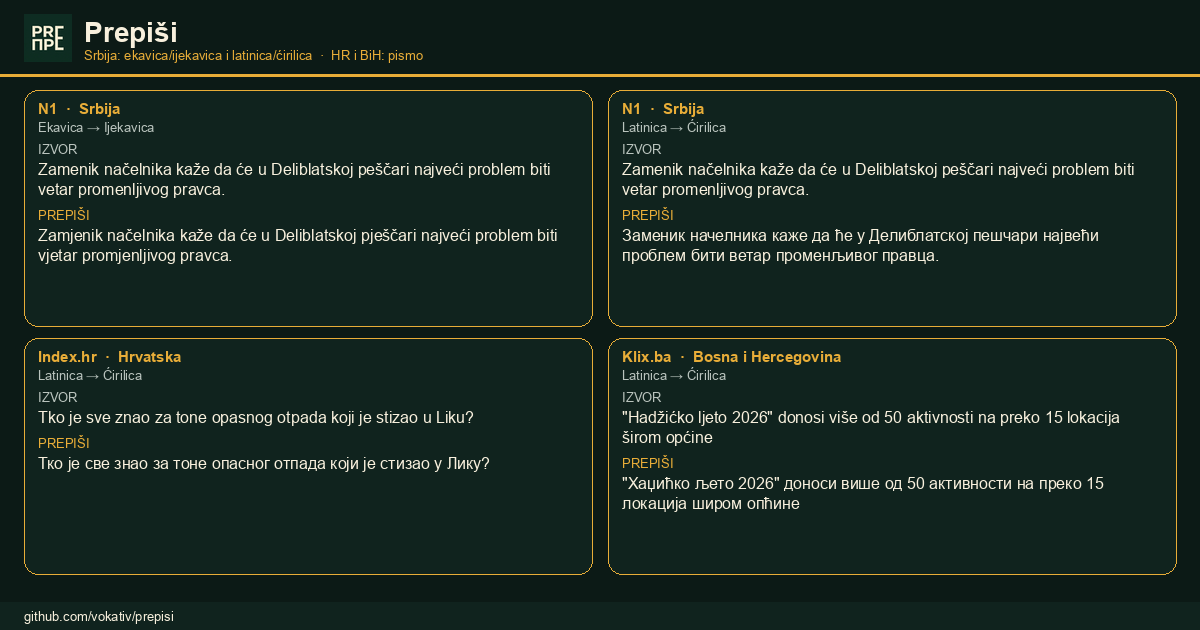
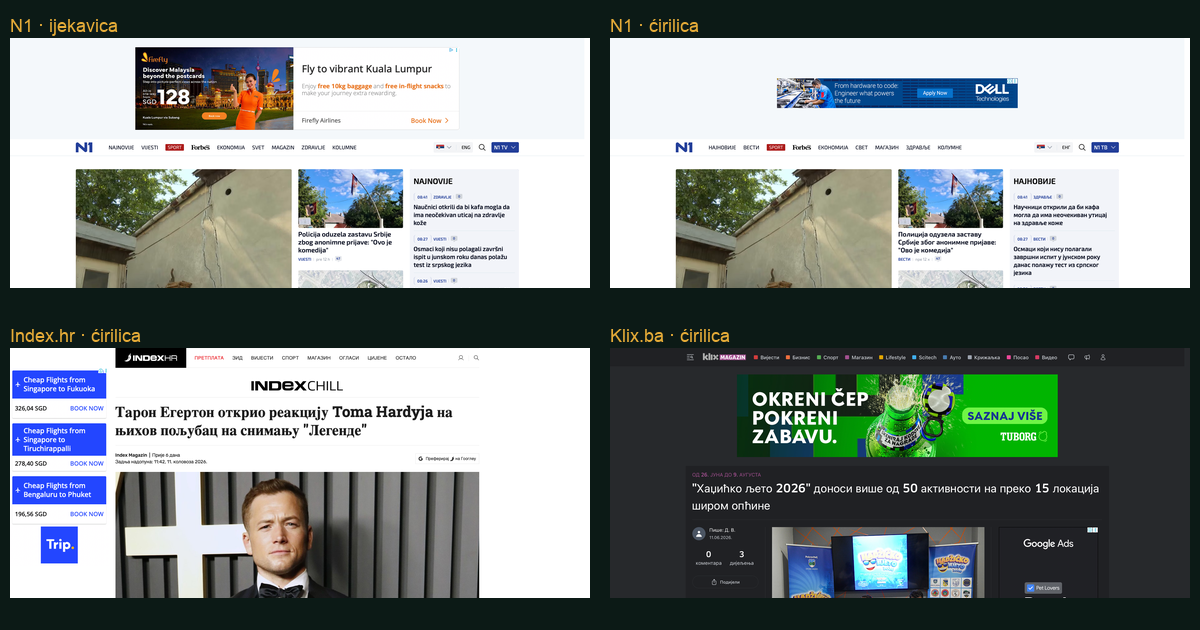
Audit release gates and add real portal screenshots

diff --git a/docs/PERSONAL_PUBLISHER_ACCOUNTS.md b/docs/PERSONAL_PUBLISHER_ACCOUNTS.md
@@ -18,6 +18,9 @@ display name: `Nemanja G`.
   `https://github.com/vokativ/prepisi/blob/main/PRIVACY.md`.
 - Check-back dates, reviewer IDs, and social drafts:
   [`docs/LAUNCH_AND_SOCIAL.md`](LAUNCH_AND_SOCIAL.md).
+- Branding audit: toolbar icons are original, but `assets/wordmark.png` remains
+  Balkan Sans-derived. Confirm its raster-output right or replace it before
+  treating the public-release branding gate as closed.
 
 ## Account status (2026-08-17)
 
@@ -61,12 +64,14 @@ address too.
    personal address with the `noreply` address in every commit's author and
    committer metadata, and the sanitized history was force-pushed. A pre-
    rewrite backup bundle was made first; there were no other collaborators or
-   branches to coordinate with (single-owner, still-private repository).
+   branches to coordinate with (single-owner repository).
 3. Verified: `git log --format='%ae' origin/main | sort -u` returns only the
-   `noreply` address across all 17 commits on `origin/main`.
+   `noreply` address across commits on `origin/main`.
 
-This was performed while the repository is still private, ahead of the
-Balkan Sans branding decision that remains the last public-release gate.
+The repository is public as of 2026-08-17. Toolbar icons are original `PRE` /
+`ПРЕ` lockups, but the popup wordmark still uses a Balkan Sans-derived raster.
+OTF/ZIP font files remain uncommitted. Confirm the wordmark's raster-output
+right or replace it before treating the branding gate as closed.
 
 Official privacy references:
 
@@ -84,19 +89,14 @@ the intended personal GitHub account, keep that remote and reauthenticate the
 GitHub CLI as that user. Otherwise, create or transfer the repository to the
 intended personal account before publishing it.
 
-After the rights gate is resolved and release files are reviewed:
+Done 2026-08-17: `vokativ/prepisi` is the public personal repository, tagged
+`v0.9.1`. Privacy and support URLs:
 
-1. Commit the 0.9.1 release changes and push them.
-2. Make the repository public.
-3. Tag the exact store source as `v0.9.1`.
-4. Use the rendered GitHub privacy page as the initial policy URL:
-   `https://github.com/vokativ/prepisi/blob/main/PRIVACY.md`.
-5. Use the repository home page as the project and support URL unless a separate
-   website is created later.
+- `https://github.com/vokativ/prepisi/blob/main/PRIVACY.md`
+- `https://github.com/vokativ/prepisi`
 
-A public GitHub repository is not required merely to register for the extension
-stores. It is useful here because it supplies stable privacy, support, and
-GPL-3.0 source links.
+Keep using the GitHub `noreply` commit address. A later store-URL update to the
+README is enough after Chrome, Firefox, or Edge publish.
 
 ## Chrome Web Store
 
@@ -106,14 +106,10 @@ Use the dedicated project Google Account `hepsesus@gmail.com`. Note that Google
 Play Console and Chrome Web Store are separate developer programs; signing in to
 the Chrome Web Store Developer Dashboard initiates the extension registration flow.
 
-1. Open the Chrome Web Store Developer Dashboard while signed in to
-   `hepsesus@gmail.com`.
-2. Non-Trader status declaration was completed on 2026-08-16.
-3. Accept the developer agreement and pay the one-time $5 registration fee.
-4. Set the public publisher name (`Prepiši` or personal handle) and confirm
-   contact email `hepsesus@gmail.com`.
-5. Upload `dist/prepisi-0.9.1-chromium.zip` and complete the listing, privacy,
-   permission-justification, and distribution fields.
+Completed 2026-08-17 under `hepsesus@gmail.com`: Non-Trader declaration, $5
+fee, publisher name `Nemanja G`, verified contact email, and upload of
+`dist/prepisi-0.9.1-chromium.zip`. Item
+`lgcbhfgbbjdhglmomlgkbeikcngjhikb` is pending review with auto-publish.
 
 Official guidance:
 
@@ -136,19 +132,16 @@ enrollment. Individual matches publication as a genuinely personal, non-business
 project. Microsoft treats publishing related to a trade, profession, freelance
 work, or business differently, so confirm that characterization during signup.
 
-### Registration
+### Submission status
 
-1. Sign in to Partner Center with the personal MSA or personal GitHub account.
-2. Open **Account settings → Programs → Microsoft Edge → Get started**.
-3. Select the correct country or region and **Individual** account type.
-4. Choose the available publisher display name and provide the required private
-   account contact information. For the public optional support contact, enter
-   the GitHub support URL rather than the login email.
-5. Accept the developer agreement and wait for verification.
-6. There is no Microsoft Edge extension-program registration fee.
-7. Upload `dist/prepisi-0.9.1-edge.zip` only after the deferred Edge runtime pass
-   is completed, or publish conservatively without claiming the deferred macOS
-   combination as verified.
+Completed 2026-08-17: Individual enrollment in Singapore, publisher profile,
+public GitHub support URL, package validation, Productivity category, privacy
+disclosures, English listing, real screenshots, and certification notes. The
+public Edge listing is **In review**; Microsoft quoted 7 business days. Edge
+runtime testing on macOS remains deferred, so do not claim that combination as
+verified.
+
+There is no Microsoft Edge extension-program registration fee.
 
 Official guidance:
 
@@ -164,20 +157,15 @@ type. After signing in to addons.mozilla.org, set the AMO developer-profile
 display name separately; the Mozilla Account display name does not automatically
 become the AMO display name.
 
-### Registration and signing
+### Submission status
 
-1. Sign in or register at addons.mozilla.org with the personal Mozilla Account.
-2. Open the Add-ons Developer Hub and choose **Submit a New Add-on**.
-3. Choose **On this site** for a normal public AMO listing.
-4. Upload `dist/prepisi-0.9.1-firefox.zip`.
-5. If AMO asks whether the submitted extension contains generated or
-   preprocessed files, provide the tagged repository source plus reviewer build
-   instructions. The target package is produced from repository source by
-   `npm run build:all`; generated linguistic files retain their documented
-   provenance and review workflow.
-6. Complete the listing and wait for Mozilla signing/review.
-7. Test the exact Mozilla-signed XPI on Firefox desktop and Android before
-   calling the signed package fully supported.
+Completed 2026-08-17: AMO agreement accepted, public listing selected, Firefox
+desktop and Android compatibility enabled, `dist/prepisi-0.9.1-firefox.zip`
+validated with 0 errors or warnings, metadata and reviewer notes completed, and
+a tagged source archive uploaded. AMO slug: `prepisi-converter`.
+
+Next real gate: after Mozilla signs the XPI, test that exact file on Firefox
+desktop and Android before describing the signed package as fully supported.
 
 Official guidance:
 
@@ -214,19 +202,15 @@ Official guidance:
 
 ## Recommended order
 
-1. Resolve the Balkan Sans-derived branding gate (confirm distribution rights
-   or replace the icon/wordmark). COMtext.SR is resolved as of 2026-08-13.
-2. Reauthenticate the intended personal GitHub account and review the complete
-   public-repository contents.
-3. Commit, push, make the repository public, and tag `v0.9.1`.
-4. Confirm the public privacy and support links work while logged out.
-5. Register the Chrome, Mozilla, and Microsoft individual publisher accounts in
-   parallel. Confirm the Apple individual membership separately.
-6. Prepare consistent descriptions, screenshots, privacy answers, permission
-   explanations, and reviewer notes.
-7. Submit Chrome first, obtain Firefox signing and retest the signed XPI, submit
-   Safari through TestFlight/App Store Connect, and return to Edge after its
-   deferred runtime pass.
+Done for 0.9.1: branding replacement, public GitHub repo, `v0.9.1` tag, privacy
+URL, Chrome/Firefox/Edge individual accounts, and store submissions. See
+[`docs/LAUNCH_AND_SOCIAL.md`](LAUNCH_AND_SOCIAL.md) for review wait dates.
+
+Still open:
+
+1. Wait for Chrome, Firefox, and Edge review; retest the Mozilla-signed XPI.
+2. Apple paid membership remains postponed.
+3. After a store URL exists, add it to the README and a follow-up social post.
 
 ## Where the account owner must step in
 

diff --git a/docs/PROJECT_STATUS.md b/docs/PROJECT_STATUS.md
@@ -70,7 +70,9 @@ Last updated: 2026-08-17. Current extension version: 0.9.1.
 - GitHub `vokativ/prepisi` is public. Privacy URL:
   `https://github.com/vokativ/prepisi/blob/main/PRIVACY.md`.
 - Toolbar icons shipped 2026-08-17 use the original `PRE` / `ПРЕ` lockup, not
-  Balkan Sans outlines. Apple Developer Program enrollment remains postponed.
+  Balkan Sans outlines. **The popup wordmark remains Balkan Sans-derived**;
+  confirm its raster-output right or replace it before treating the branding
+  release gate as closed. Apple Developer Program enrollment remains postponed.
 - Store submissions on 2026-08-17: Chrome Web Store item
   `lgcbhfgbbjdhglmomlgkbeikcngjhikb` is **Pending review** (auto-publish);
   Firefox AMO slug `prepisi-converter` validated with 0 errors and is in
@@ -98,27 +100,29 @@ commands documented in `CONTRIBUTING.md` and `docs/DIALECT_DATA.md`.
 - Never commit the privately licensed Balkan Sans ZIP/OTF files, corpus caches,
   signing keys, generated browser folders, or packaged extension ZIPs. The
   repository ignore rules enforce these boundaries.
-- The GitHub repository is public. Balkan Sans OTF/ZIP files stay uncommitted;
-  shipped icons use the original `PRE` / `ПРЕ` lockup. COMtext.SR terms were
-  confirmed 2026-08-13 (CC BY 4.0 International); see `ATTRIBUTIONS.md`.
+- The GitHub repository is public. Balkan Sans OTF/ZIP files stay uncommitted.
+  Toolbar icons are original, but the popup wordmark remains Balkan Sans-derived;
+  see `ATTRIBUTIONS.md` for the remaining distribution-rights gate.
 - A future non-GPL integration can be discussed with maintainers, but would
   require author permission for affected data or replacement data.
 
 ## Next release work
 
-1. **Watch store reviews** using the dates in
+1. **Resolve the popup-wordmark rights gate.** Confirm Typotheque permits
+   distribution of the existing Balkan Sans-derived raster, or replace
+   `assets/wordmark.png` with independently sourced artwork. Do not call the
+   branding release gate closed before then.
+2. **Watch store reviews** using the dates in
    [`docs/LAUNCH_AND_SOCIAL.md`](LAUNCH_AND_SOCIAL.md). Firefox ~24 hours,
    Edge ~7 business days, Chrome weekly until published.
-2. **After the Mozilla-signed XPI exists**, retest Firefox desktop and Android
+3. **After the Mozilla-signed XPI exists**, retest Firefox desktop and Android
    remembered navigation on that exact file before claiming signed support.
-3. **After a store URL exists**, add it to the README and a follow-up social
+4. **After a store URL exists**, add it to the README and a follow-up social
    post. Do not claim all browsers until Chrome, Firefox, and Edge have all
    listed.
-4. **Apple remains postponed.** Enroll in the paid Developer Program only when
+5. **Apple remains postponed.** Enroll in the paid Developer Program only when
    there are more apps to publish; then register `com.vokativ.prepisi` /
    `com.vokativ.prepisi.Extension`.
-5. **Optional later:** replace remaining Balkan Sans references in research
-   notes, and restock store promo tiles if a reviewer asks for new screenshots.
 
 Firefox Android event-page research is recorded in
 `research/FIREFOX_MV3_ANDROID_EVENT_PAGES.md`; repository guardrails are also

diff --git a/docs/LAUNCH_AND_SOCIAL.md b/docs/LAUNCH_AND_SOCIAL.md
@@ -56,19 +56,29 @@ What each panel must show:
 
 | File | Size | Use |
 | --- | --- | --- |
-| `docs/images/preview-three-portals.png` | 1200×1760 | README and mobile posts (four stacked cards) |
-| `docs/images/preview-conversion.png` | same stacked card | README hero |
-| `docs/images/social-card-1200x630.png` | 1200×630 | LinkedIn and X attachment (2×2) |
+| `docs/images/live/n1-source.png` | 1754×2040 | N1 source, Latin/Ekavian |
+| `docs/images/live/n1-dialect.png` | 1754×2040 | N1 after Ekavian → Ijekavian |
+| `docs/images/live/n1-script.png` | 1754×2040 | N1 after Latinica → Ćirilica |
+| `docs/images/live/index-source.png` / `index-script.png` | 1754×2040 each | Actual Index.hr source → Cyrillic pair |
+| `docs/images/live/klix-source.png` / `klix-script.png` | 1754×2040 each | Actual Klix.ba source → Cyrillic pair |
+| `docs/images/preview-conversion.png` | before/after collage | README convenience only |
+| `docs/images/social-card-1200x630.png` | 1200×630 | Compact overview only |
 
-Verified copy, 2026-08-17:
+Use the individual files as a **four-image carousel** on LinkedIn or X: N1
+source → N1 Ijekavian, then Index.hr source → Index.hr Cyrillic; make Klix a
+second carousel or a later post. Actual side-by-side screenshots are clearer
+than an illustrated explainer on a phone.
+
+These are actual browser screenshots made after accepting each portal's cookie
+banner and applying the shipped converter. They show ordinary public portal
+layout and advertising; no account UI, comments, or private content is present.
+
+The headline fixtures below establish converter behavior. They are not claimed
+to be the exact visible headline in every live screenshot:
 
 - **N1, dialect.** `Zamenik načelnika kaže da će u Deliblatskoj peščari najveći problem biti vetar promenljivog pravca.` → `Zamjenik načelnika kaže da će u Deliblatskoj pješčari najveći problem biti vjetar promjenljivog pravca.` Pinned in `test/converter.test.js`.
 - **N1, script.** Same source → `Заменик начелника каже да ће у Делиблатској пешчари највећи проблем бити ветар променљивог правца.`
-- **Index.hr, script.** Frozen fixture in `test/fixtures/portal-samples.json`.
-- **Klix.ba, script.** Same fixture file; Latin → Cyrillic.
-
-Do not attach live page captures that include private UI, account chrome, or
-comment threads.
+- **Index.hr and Klix.ba, script.** Current live article views were converted from Latin to Cyrillic; frozen fixtures remain in `test/fixtures/portal-samples.json`.
 
 ## Social drafts
 
@@ -100,8 +110,9 @@ Klix.ba: latinica → ćirilica
 https://github.com/vokativ/prepisi
 ```
 
-Attach `docs/images/social-card-1200x630.png`. On a phone, the taller
-`docs/images/preview-three-portals.png` is easier to read.
+Attach the individual N1 source and N1 Ijekavian screenshots first; add the
+Index.hr source/Cyrillic pair as the next carousel items. They remain legible
+on a phone. The 1200×630 card is only a compact alternative.
 
 ### X / Twitter scaffold
 

diff --git a/docs/DIALECT_DATA.md b/docs/DIALECT_DATA.md
@@ -234,7 +234,7 @@ evaluated.
 | srLex/hrLex-derived generated forms | GPL-3.0-only distribution through CC BY-SA 4.0 → GPLv3 compatibility | Keep provenance, transformation record, and source attribution in `ATTRIBUTIONS.md` |
 | Mići Princ-derived Ikavian evidence | GPL-3.0-only distribution through CC BY-SA 4.0 → GPLv3 compatibility | Keep dataset handle, creators, method, and license attribution |
 | COMtext.SR observations | CC BY 4.0 International, confirmed 2026-08-13 in upstream `## Licence` section (any purpose incl. commercial, with attribution) | Resolved — keep pinned provenance, license link, and attribution in `ATTRIBUTIONS.md` |
-| Balkan Sans source font | Privately purchased license | Never commit ZIP/OTF files; publish raster outputs only after confirming the font license permits that distribution |
+| Balkan Sans source font | Privately purchased license | Never commit ZIP/OTF files. Toolbar icons are original as of 2026-08-17; the popup wordmark still needs a raster-output-right confirmation or replacement |
 | Company-name snapshots | Compiled names and source links | Retain snapshot methodology and avoid copying protected editorial content |
 
 The repository-level GPL-3.0-only license gives the project one primary license,
@@ -242,11 +242,11 @@ but it does not erase source attribution, compatibility, or asset obligations.
 Every new source needs an explicit compatibility check. “Available online” and
 “downloadable” do not mean redistributable.
 
-Before making the repository public, maintainers should confirm the permitted
-distribution of the Balkan Sans-derived raster marks (or replace them with
-originally licensed branding) and verify that ignored private source files are
-absent from the initial Git history. The COMtext.SR redistribution status was
-resolved 2026-08-13; see `ATTRIBUTIONS.md`.
+The repository is public. Toolbar icons use an original `PRE` / `ПРЕ` lockup;
+the popup wordmark is still Balkan Sans-derived and remains the outstanding
+raster-output-right or replacement gate. Balkan Sans ZIP/OTF files stay ignored
+and uncommitted. COMtext.SR redistribution was resolved 2026-08-13; see
+`ATTRIBUTIONS.md`.
 
 ## Review questions
 

diff --git a/research/BRAND_IDENTITY_ALTERNATIVES.md b/research/BRAND_IDENTITY_ALTERNATIVES.md
@@ -1,13 +1,12 @@
 # Brand identity alternatives to the Balkan Sans-derived mark
 
-Status: researched 2026-08-13. This is a decision-support note, not a finished
-design. It exists because the current toolbar icon and popup wordmark are
-rendered from a privately licensed font (`ATTRIBUTIONS.md` → "Balkan Sans
-identity"), and the project owner has not yet confirmed that the purchased
-Typotheque license permits distributing the *raster output* of that font
-inside a public, freely redistributable browser extension. Until that is
-confirmed or the mark is replaced, the current icon/wordmark stays a
-public-release gate (`docs/PROJECT_STATUS.md`, `docs/PERSONAL_PUBLISHER_ACCOUNTS.md`).
+**Partly resolved 2026-08-17.** Toolbar icons now use an original raster
+`PRE` / `ПРЕ` lockup and no longer use Balkan Sans outlines. The popup wordmark
+still uses a Balkan Sans-derived raster, so the public-release gate is not fully
+closed until its Typotheque raster-output right is confirmed or it is replaced.
+The private font archive remains excluded from Git and extension packages.
+
+This document is decision history for the outstanding wordmark choice.
 
 ## Why the current mark matters, not just what it is
 

diff --git a/ATTRIBUTIONS.md b/ATTRIBUTIONS.md
@@ -100,7 +100,9 @@ never requested while a user browses.
 
 ## Brand identity
 
-The toolbar mark and popup wordmark feature an original stacked Latin and
-Cyrillic typographic lockup (`PRE` / `ПРЕ`), pairing both scripts through a
-shared homoglyph. The raster marks are rendered independently and are freely
-distributed under the project's GPL-3.0 license.
+Toolbar icons are original raster `PRE` / `ПРЕ` lockups, independently rendered
+without Balkan Sans outlines. The popup wordmark (`assets/wordmark.png`) remains
+a Balkan Sans-derived raster from the project owner's Typotheque-licensed font.
+The OTF/ZIP font files are not included in this repository or extension package.
+Public distribution of that remaining wordmark stays subject to confirmation of
+the applicable Typotheque raster-output right or a replacement wordmark.

diff --git a/README.md b/README.md
@@ -262,9 +262,10 @@ case-sensitively, so `Orange` can remain a company while ordinary lowercase
 `orange` is still convertible. The list is bundled and never refreshed while a
 user browses.
 
-The popup wordmark and toolbar icon are rendered from the user-licensed Balkan
-Sans files. The version 0.6 toolbar mark uses the font's paired `PRE / ПРЕ`
-treatment. Font binaries are deliberately excluded from the extension archive.
+Toolbar icons are original stacked `PRE` / `ПРЕ` lockups. The popup wordmark is
+currently a Balkan Sans-derived raster; its distribution right is outstanding
+until confirmed with Typotheque or replaced. Font binaries are not part of the
+repository or extension archive.
 
 ## Sources used for the first rules
 
